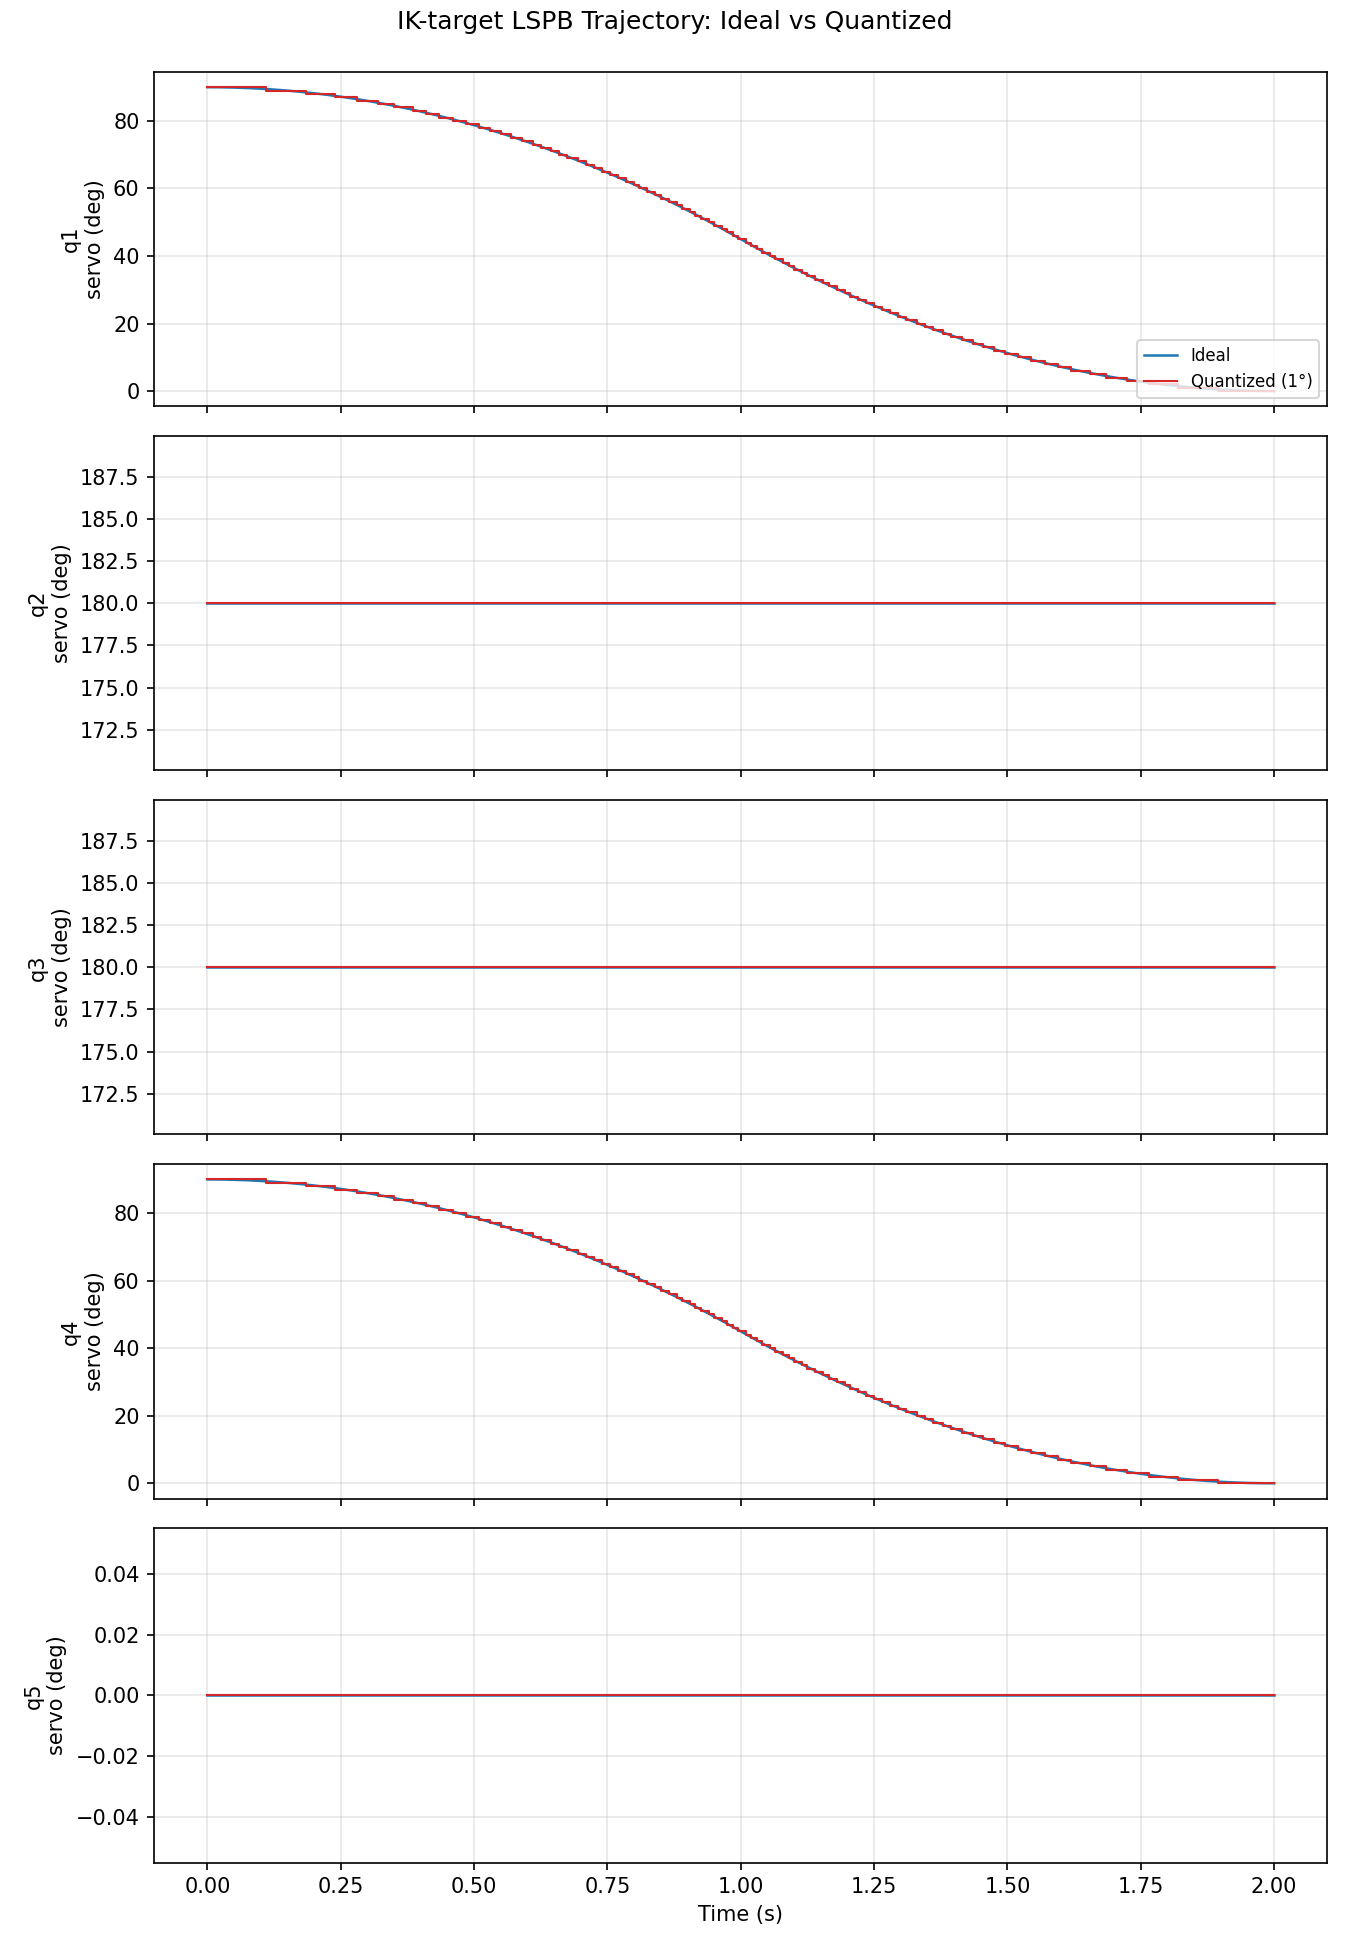
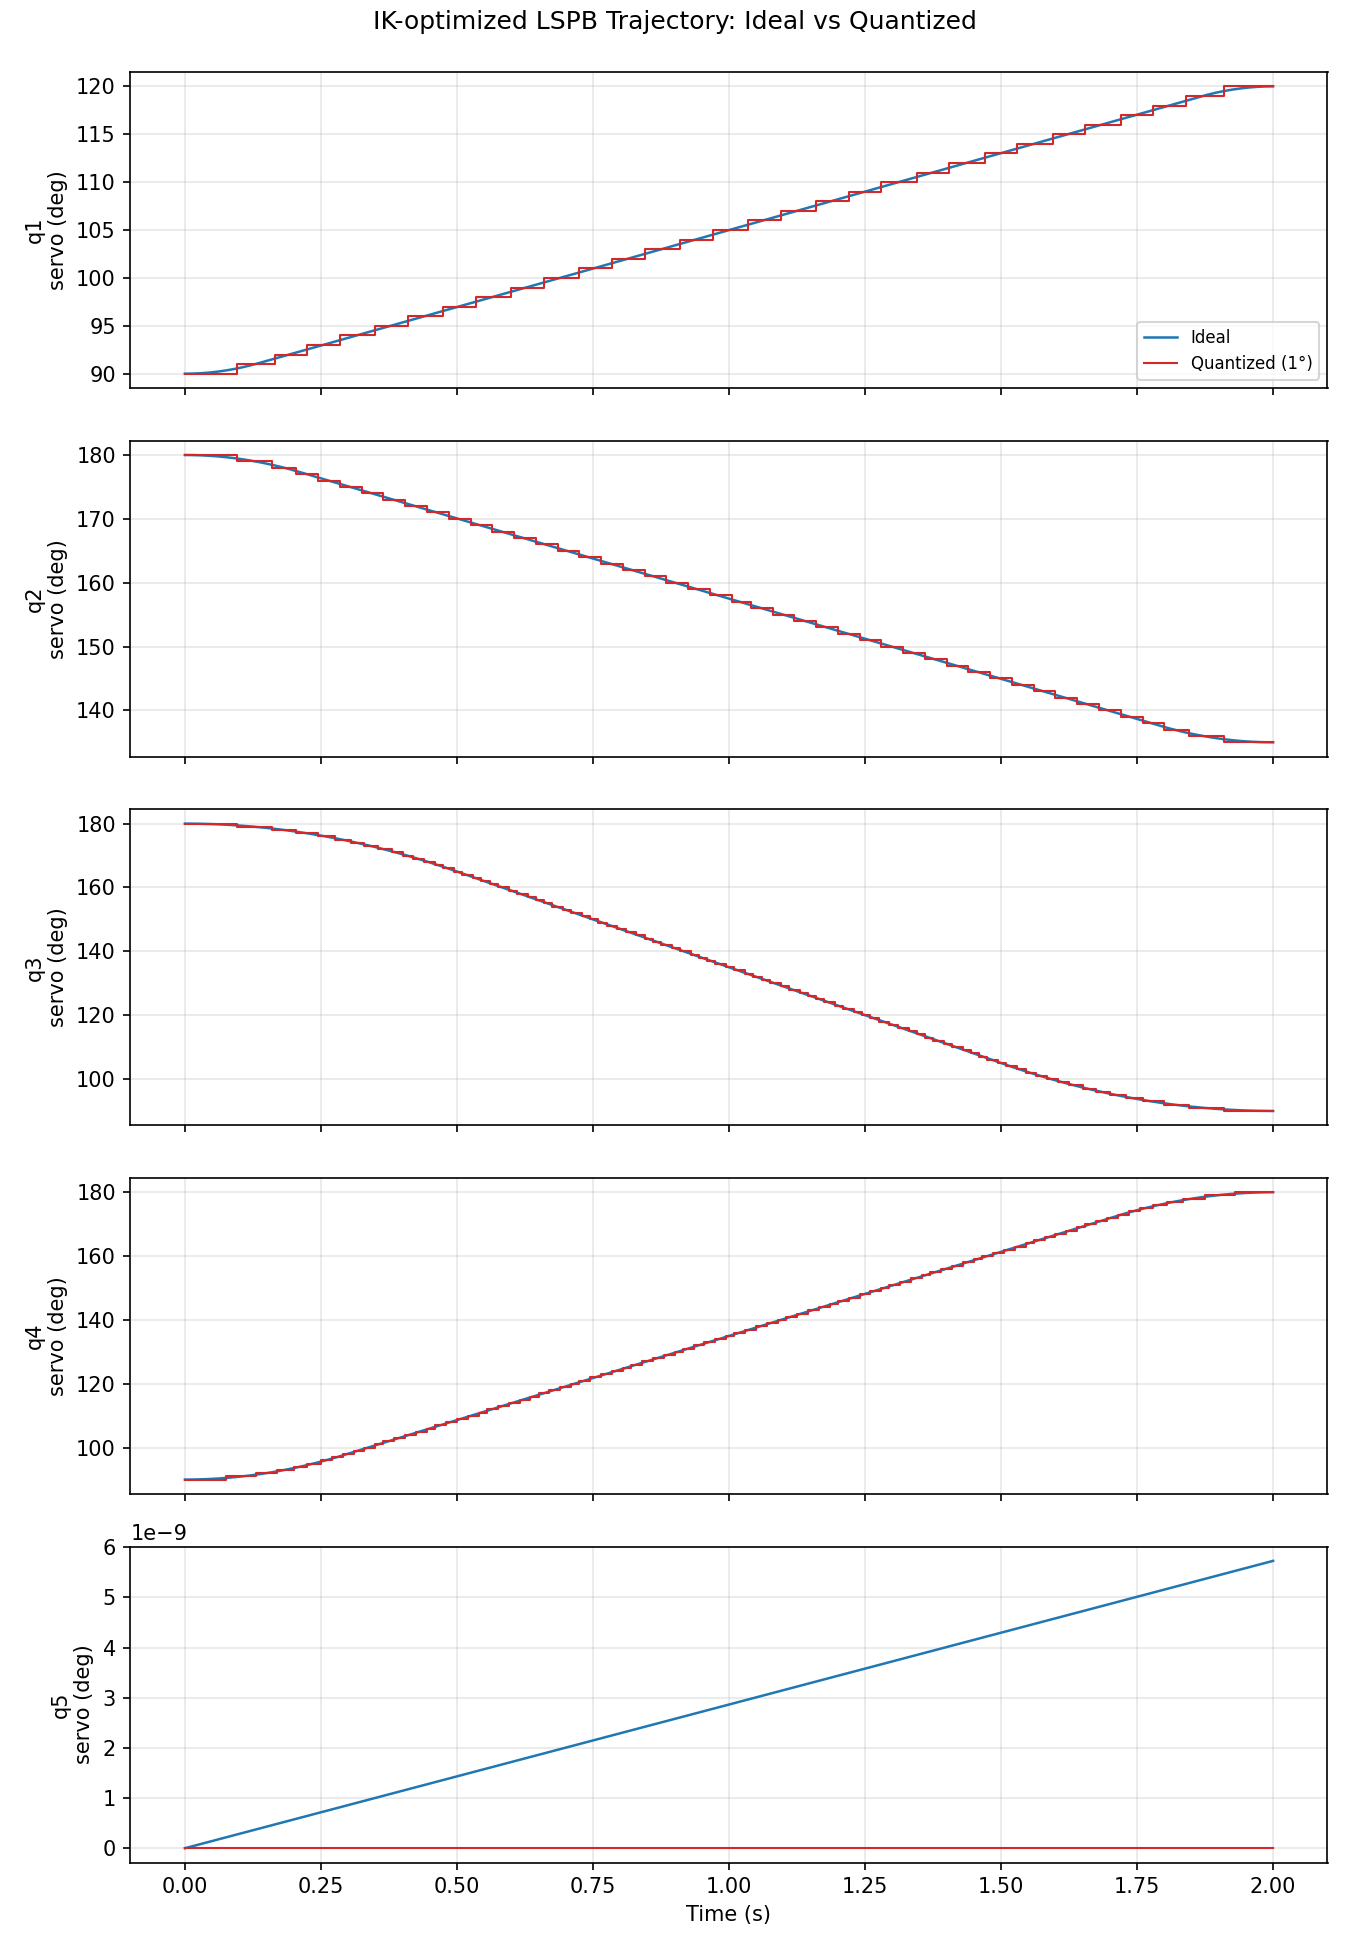
Refactor inverse kinematics implementation to use least-squares optimization; update primary guess handling and improve pose error calculation for better convergence.

diff --git a/python_arm/kinematics.py b/python_arm/kinematics.py
@@ -1,5 +1,5 @@
 import numpy as np
-from scipy.optimize import minimize
+from scipy.optimize import least_squares
 
 
 def get_forward_kinematics(q, qh=0.0):
@@ -95,66 +95,88 @@ def inverse_kinematics_dls(T_target, q_guess, qh=0.0, max_iter=1000,
     return q
 
 
-def _pose_error(q, T_target, qh, w_pos=1.0, w_orient=0.3):
-    """Weighted squared position + orientation error, for the optimizer's cost."""
+def _pose_residuals(q, T_target, qh, w_pos=1.0, w_orient=1.0):
+    """
+    Residual vector (not a scalar) for least_squares: 3 position residuals
+    + 9 rotation-matrix-difference residuals. least_squares minimizes the
+    sum of squares of ALL these components using a proper nonlinear
+    least-squares algorithm (trust-region reflective), which is far more
+    reliable at actually reaching zero residual (when a solution exists)
+    than treating pose-matching as a single scalar cost for a general
+    bounded minimizer (L-BFGS-B) -- especially near joint-limit
+    boundaries, where a scalar optimizer's gradient can get clipped
+    before it finds the exact solution.
+    """
     T = get_forward_kinematics(q, qh)
-    p_err = T[0:3, 3] - T_target[0:3, 3]
-
-    R_err = T_target[0:3, 0:3] @ T[0:3, 0:3].T
-    w_err = np.array([
-        R_err[2, 1] - R_err[1, 2],
-        R_err[0, 2] - R_err[2, 0],
-        R_err[1, 0] - R_err[0, 1]
-    ]) / 2.0
-
-    return w_pos * np.sum(p_err**2) + w_orient * np.sum(w_err**2)
+    p_err = (T[0:3, 3] - T_target[0:3, 3]) * np.sqrt(w_pos)
+    R_err = (T[0:3, 0:3] - T_target[0:3, 0:3]).flatten() * np.sqrt(w_orient)
+    return np.concatenate([p_err, R_err])
 
 
 def inverse_kinematics_optimized(T_target, bounds_rad, qh=0.0,
                                   n_starts=8, seed=0,
-                                  w_pos=1.0, w_orient=0.3):
+                                  w_pos=1.0, w_orient=1.0,
+                                  primary_guess=None):
     """
-    Bounded-optimization Inverse Kinematics: minimizes weighted pose error
-    (position + orientation) subject to joint-limit bounds using
-    scipy.optimize.minimize (L-BFGS-B), which respects the bounds by
-    construction -- no post-hoc rejection, clipping, or fallback needed,
-    unlike an unconstrained iterative solver (e.g. DLS).
+    Bounded nonlinear-least-squares Inverse Kinematics: minimizes the sum
+    of squared position + orientation residuals subject to joint-limit
+    bounds using scipy.optimize.least_squares (trust-region reflective),
+    which respects the bounds by construction. Prefer this over a scalar
+    bounded minimizer (L-BFGS-B on a single weighted cost) -- least_squares
+    is purpose-built for exactly this "drive many residuals to zero"
+    problem and converges far more reliably to an exact solution when one
+    exists, including near joint-limit boundaries.
 
-    Tries several starting points (multi-start, to reduce the chance of
-    landing in a poor local minimum) and returns the best result.
+    Tries several starting points (multi-start) and returns the best
+    result by final residual norm.
 
     Parameters:
         T_target  : 4x4 target pose
-        bounds_rad: list of (min, max) tuples in RADIANS, one per joint --
-                    this is where your joint constraints (j1=+/-90 deg,
-                    j2=0..180 deg, j4=+/-90 deg, etc, converted to
-                    radians) are enforced
+        bounds_rad: list of (min, max) tuples in RADIANS, one per joint
         qh        : fixed helper joint parameter (unchanged, e.g. 0.0)
         n_starts  : number of random starting points to try, in addition
                     to the midpoint of the bounds
-        w_pos, w_orient: relative weight of position vs orientation error
-                    in the cost function
+        w_pos, w_orient: relative weight of position vs orientation
+                    residuals (equal by default -- unlike the old scalar
+                    cost, there is no need to underweight orientation)
+        primary_guess: optional joint angles (radians) to try FIRST --
+                    see docstring note below on redundancy.
 
     Returns: (q_solved_rad, cost, success)
-        cost is the final weighted pose-error value (near 0 = good fit).
-        success is True only if scipy reports convergence AND cost is
-        below a sane threshold -- always check this before trusting q.
+        cost is the final sum-of-squared-residuals (near 0 = good fit).
+        success is True only if the residual norm is below a sane
+        threshold -- always check this before trusting q.
+
+    Note on redundancy: a 5-DOF arm can have MULTIPLE joint
+    configurations reaching the same pose. The solver has no way to know
+    which one you want unless you tell it via primary_guess -- without
+    it, you may get a different (but equally valid) solution than the
+    one you had in mind.
     """
     bounds_rad = list(bounds_rad)
     lo = np.array([b[0] for b in bounds_rad])
     hi = np.array([b[1] for b in bounds_rad])
 
     rng = np.random.default_rng(seed)
-    starts = [(lo + hi) / 2.0]  # midpoint of bounds as first guess
+    starts = []
+    if primary_guess is not None:
+        starts.append(np.array(primary_guess, dtype=float))
+    starts.append((lo + hi) / 2.0)
     for _ in range(n_starts):
         starts.append(rng.uniform(lo, hi))
 
-    best_result = None
+    best = None  # (cost, q_sol)
     for q0 in starts:
-        res = minimize(_pose_error, q0, args=(T_target, qh, w_pos, w_orient),
-                        method="L-BFGS-B", bounds=bounds_rad)
-        if best_result is None or res.fun < best_result.fun:
-            best_result = res
+        q0_clipped = np.clip(q0, lo, hi)  # least_squares requires x0 strictly within bounds
+        res = least_squares(_pose_residuals, q0_clipped,
+                             args=(T_target, qh, w_pos, w_orient),
+                             bounds=(lo, hi), method="trf")
+        cost = np.sum(res.fun**2)
+        if best is None or cost < best[0]:
+            best = (cost, res.x)
+        if primary_guess is not None and cost < 1e-10:
+            break
 
-    success = bool(best_result.success and best_result.fun < 1e-4)
-    return best_result.x, best_result.fun, success
+    cost, q_sol = best
+    success = bool(cost < 1e-6)
+    return q_sol, cost, success

diff --git a/lspb_serial_send.py b/lspb_serial_send.py
@@ -23,13 +23,15 @@ flip is inferred by symmetry with q2 since no constraint was stated for
 it -- VERIFY ON HARDWARE. q5's range [0,180] is unconstrained/unchanged.
 
 ================================================================
-WHY BOUNDED OPTIMIZATION INSTEAD OF DLS + REJECT/CLIP
+WHY BOUNDED LEAST-SQUARES OPTIMIZATION INSTEAD OF DLS + REJECT/CLIP
 ================================================================
-scipy.optimize.minimize with bounds=... enforces joint limits AS PART OF
-the search (L-BFGS-B is a bounded solver) -- it cannot step outside the
-given range, so there's nothing to reject or clip afterward. Multi-start
-(several random starting points) is still used to avoid poor local
-minima in the pose-error cost, not to avoid limit violations.
+scipy.optimize.least_squares (trust-region reflective) with bounds=...
+enforces joint limits AS PART OF the search -- it cannot step outside
+the given range, so there's nothing to reject or clip afterward. It also
+converges far more reliably than a scalar bounded minimizer, especially
+near joint-limit boundaries. Multi-start (several random starting
+points, plus an optional primary_guess) is still used to avoid landing
+on a different-but-valid solution branch than the one you intended.
 ================================================================
 """
 
@@ -38,7 +40,7 @@ import numpy as np
 import matplotlib.pyplot as plt
 
 from lspb_joint_limits import ServoCalibration, LSPBTrajectory
-from kinematics import get_forward_kinematics, inverse_kinematics_optimized
+from python_arm.kinematics import get_forward_kinematics, inverse_kinematics_optimized
 
 try:
     import serial
@@ -73,14 +75,19 @@ for i in range(5):
 # ======================================================================
 # 1. Solve IK for the Cartesian target
 # ======================================================================
-T_target = np.array([
-    [ 0.,    1.,    0.,    -0.   ],
-    [-0.,    0.,   -1.,    -0.461],
-    [-1.,    0.,    0.,     0.08 ],
-    [ 0.,    0.,    0.,     1.   ]])
+q_default = [np.radians(30), np.radians(45), np.radians(90), np.radians(90), np.radians(0)]
+qh_fixed = 0.0
+T_target = get_forward_kinematics(q_default, qh_fixed)
 
+# Passing q_default as primary_guess biases the solver toward THIS exact
+# configuration, rather than an equally-valid but different one -- the
+# arm is redundant for some poses (multiple joint sets can reach the
+# same pose), so without this the solver has no way to know which one
+# you actually meant. If you instead have a raw Cartesian pose (not
+# built from known joint angles), set primary_guess=None or supply your
+# own preferred configuration in radians.
 q_solved, cost, success = inverse_kinematics_optimized(
-    T_target, JOINT_BOUNDS_RAD, qh=0.0)
+    T_target, JOINT_BOUNDS_RAD, qh=qh_fixed, primary_guess=q_default)
 
 print(f"\nIK cost: {cost:.2e}   success: {success}")
 if not success:
@@ -88,7 +95,7 @@ if not success:
           "lspb_quantized_plot.py's plot BEFORE sending to real hardware. "
           "It may be unreachable within the given joint bounds.")
 
-q_true_hw_target = np.degrees(q_solved)
+q_true_hw_target = np.degrees(q_solved)   # kin == true-DH-hw directly now
 print("Solved joint target (deg):", np.round(q_true_hw_target, 2))
 
 # ======================================================================

diff --git a/lspb_quantized_plot.py b/lspb_quantized_plot.py
@@ -70,12 +70,21 @@ for i in range(5):
 # ======================================================================
 # 1. Solve IK for the Cartesian target
 # ======================================================================
-q_default = [np.radians(0), np.radians(120), np.radians(60), np.radians(0), np.radians(90)]
+q_default = [np.radians(0), np.radians(0), np.radians(0), np.radians(0), np.radians(0)]
 qh_fixed = 0.0
 T_target = get_forward_kinematics(q_default, qh_fixed)
 
+# Passing q_default as primary_guess biases the solver toward THIS exact
+# configuration, rather than an equally-valid but different one -- the
+# arm is redundant for some poses (multiple joint sets can reach the
+# same pose), so without this the solver has no way to know which one
+# you actually meant.
 q_solved, cost, success = inverse_kinematics_optimized(
-    T_target, JOINT_BOUNDS_RAD, qh=qh_fixed)
+    T_target, JOINT_BOUNDS_RAD, qh=qh_fixed, primary_guess=q_default)
+
+T_target = get_forward_kinematics(q_solved, qh_fixed)
+print("\nTarget pose (T_target):")
+print(T_target)
 
 print(f"\nIK cost: {cost:.2e}   success: {success}")
 if not success:

diff --git a/lspb_gui.py b/lspb_gui.py
@@ -1,25 +1,3 @@
-"""
-lspb_gui.py
-
-Standalone desktop GUI for LSPB trajectory planning on a 5-DOF arm.
-
-Requires:
-    pip install numpy matplotlib
-
-Run:
-    python lspb_gui.py
-
-Features (mirrors the web version):
-  - Per-joint: servo offset, direction (+1/-1), "no-remap" flag, q0/qf
-    (planning-space), vmax, amax
-  - Global: servo min/max, servo resolution (deg)
-  - Live validation against derived joint limits (true DH range and
-    planning-space range)
-  - "Plan & Plot" button: computes synchronized LSPB trajectory, converts
-    to servo commands, quantizes to servo resolution, and plots ideal vs
-    quantized position curves for all 5 joints
-"""
-
 import tkinter as tk
 from tkinter import ttk
 import numpy as np
